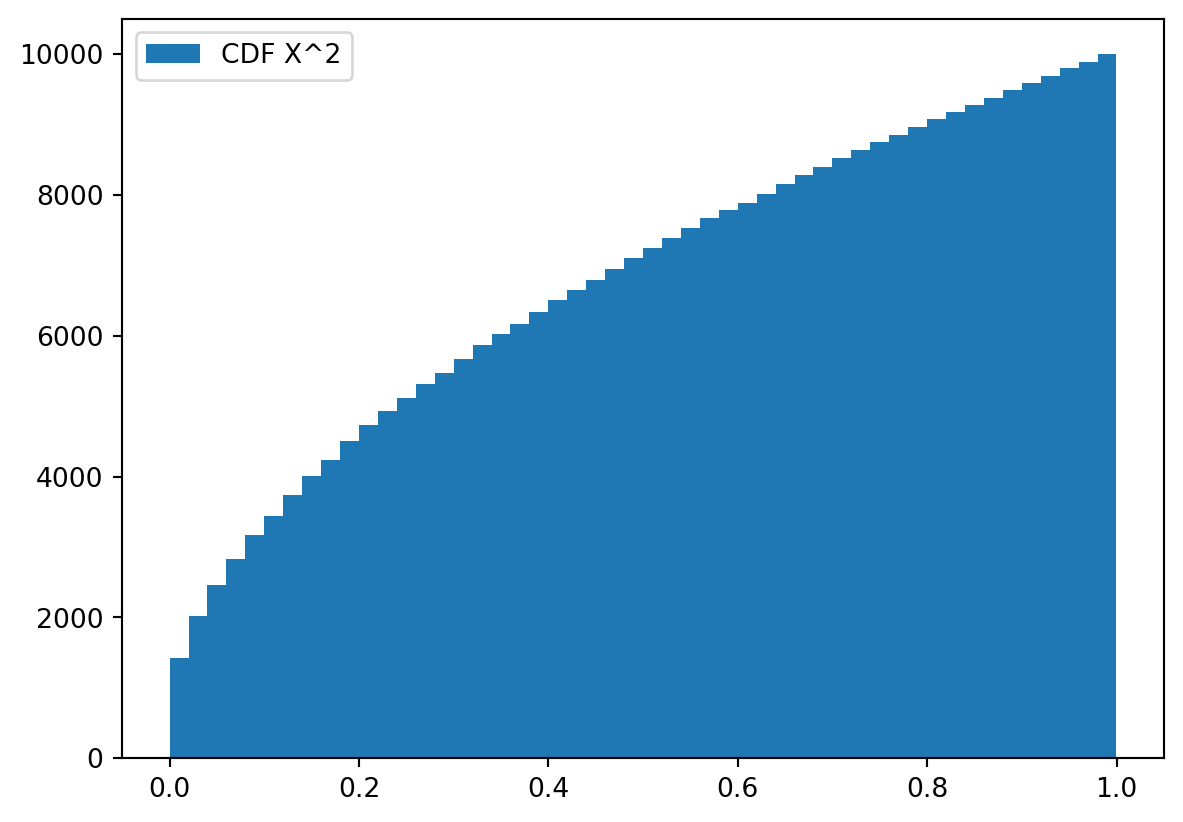
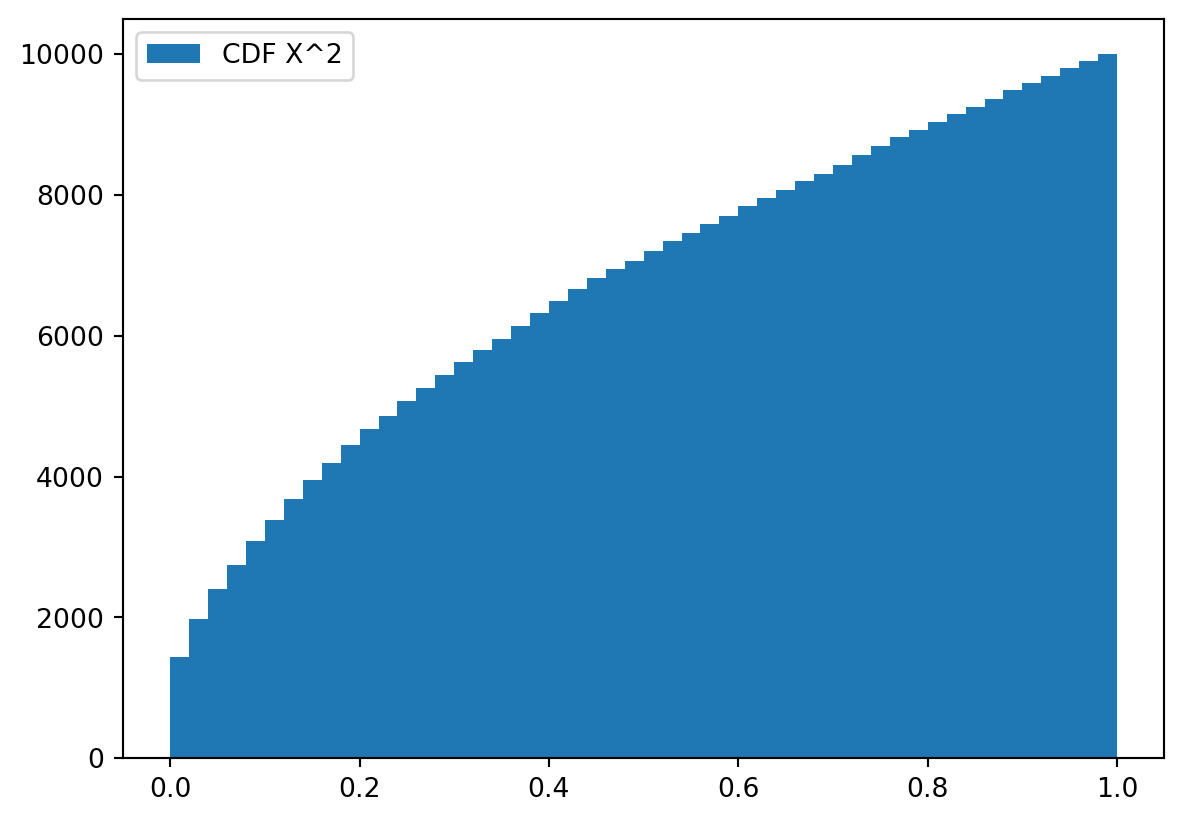
Built site for gh-pages

diff --git a/FCSC/ch1.html b/FCSC/ch1.html
@@ -135,7 +135,7 @@ code span.wa { color: #60a0b0; font-weight: bold; font-style: italic; } /* Warni
   <header id="quarto-header" class="headroom fixed-top">
   <nav class="quarto-secondary-nav" data-bs-toggle="collapse" data-bs-target="#quarto-sidebar" aria-controls="quarto-sidebar" aria-expanded="false" aria-label="Toggle sidebar navigation" onclick="if (window.quartoToggleHeadroom) { window.quartoToggleHeadroom(); }">
     <div class="container-fluid d-flex justify-content-between">
-      <h1 class="quarto-secondary-nav-title">A First Course in Stochastic Calculus: Chapter One Exercises</h1>
+      <h1 class="quarto-secondary-nav-title">A First Course in Stochastic Calculus</h1>
       <button type="button" class="quarto-btn-toggle btn" aria-label="Show secondary navigation">
         <i class="bi bi-chevron-right"></i>
       </button>
@@ -199,7 +199,7 @@ code span.wa { color: #60a0b0; font-weight: bold; font-style: italic; } /* Warni
 
 <header id="title-block-header" class="quarto-title-block default">
 <div class="quarto-title">
-<h1 class="title d-none d-lg-block">A First Course in Stochastic Calculus: Chapter One Exercises</h1>
+<h1 class="title d-none d-lg-block">A First Course in Stochastic Calculus</h1>
 <p class="subtitle lead">Chapter One Exercises</p>
 </div>
 
@@ -321,7 +321,7 @@ code span.wa { color: #60a0b0; font-weight: bold; font-style: italic; } /* Warni
 <span id="cb5-7"><a href="#cb5-7" aria-hidden="true" tabindex="-1"></a>plt.hist(averages, bins)</span>
 <span id="cb5-8"><a href="#cb5-8" aria-hidden="true" tabindex="-1"></a>plt.show()</span></code><button title="Copy to Clipboard" class="code-copy-button"><i class="bi"></i></button></pre></div>
 <div class="cell-output cell-output-display">
-<p><img src="ch1_files/figure-html/cell-6-output-1.png" width="583" height="411"></p>
+<p><img src="ch1_files/figure-html/cell-6-output-1.png" width="583" height="413"></p>
 </div>
 </div>
 <div class="cell" data-execution_count="6">
@@ -377,7 +377,7 @@ code span.wa { color: #60a0b0; font-weight: bold; font-style: italic; } /* Warni
 <div class="sourceCode cell-code" id="cb9"><pre class="sourceCode python code-with-copy"><code class="sourceCode python"><span id="cb9-1"><a href="#cb9-1" aria-hidden="true" tabindex="-1"></a><span class="kw">def</span> invF(y):</span>
 <span id="cb9-2"><a href="#cb9-2" aria-hidden="true" tabindex="-1"></a>    <span class="cf">return</span> np.tan((y <span class="op">-</span> <span class="fl">0.5</span>)<span class="op">*</span>np.pi)</span>
 <span id="cb9-3"><a href="#cb9-3" aria-hidden="true" tabindex="-1"></a></span>
-<span id="cb9-4"><a href="#cb9-4" aria-hidden="true" tabindex="-1"></a>N <span class="op">=</span> <span class="dv">100000</span></span>
+<span id="cb9-4"><a href="#cb9-4" aria-hidden="true" tabindex="-1"></a>N <span class="op">=</span> <span class="dv">10000</span></span>
 <span id="cb9-5"><a href="#cb9-5" aria-hidden="true" tabindex="-1"></a>samples <span class="op">=</span> [ invF(u) <span class="cf">for</span> u <span class="kw">in</span> np.random.default_rng().uniform(<span class="dv">0</span>, <span class="dv">1</span>, N) ]</span>
 <span id="cb9-6"><a href="#cb9-6" aria-hidden="true" tabindex="-1"></a></span>
 <span id="cb9-7"><a href="#cb9-7" aria-hidden="true" tabindex="-1"></a></span>
@@ -387,18 +387,19 @@ code span.wa { color: #60a0b0; font-weight: bold; font-style: italic; } /* Warni
 <span id="cb9-11"><a href="#cb9-11" aria-hidden="true" tabindex="-1"></a>plt.legend(loc<span class="op">=</span><span class="st">'upper right'</span>)</span>
 <span id="cb9-12"><a href="#cb9-12" aria-hidden="true" tabindex="-1"></a>plt.show()</span></code><button title="Copy to Clipboard" class="code-copy-button"><i class="bi"></i></button></pre></div>
 <div class="cell-output cell-output-display">
-<p><img src="ch1_files/figure-html/cell-10-output-1.png" width="583" height="411"></p>
+<p><img src="ch1_files/figure-html/cell-10-output-1.png" width="575" height="411"></p>
 </div>
 </div>
 <div class="cell" data-execution_count="10">
-<div class="sourceCode cell-code" id="cb10"><pre class="sourceCode python code-with-copy"><code class="sourceCode python"><span id="cb10-1"><a href="#cb10-1" aria-hidden="true" tabindex="-1"></a>mean <span class="op">=</span> [ s<span class="op">/</span>(idx <span class="op">+</span> <span class="dv">1</span>) <span class="cf">for</span> idx, s <span class="kw">in</span> <span class="bu">enumerate</span>(np.cumsum(samples)) ]</span>
-<span id="cb10-2"><a href="#cb10-2" aria-hidden="true" tabindex="-1"></a></span>
-<span id="cb10-3"><a href="#cb10-3" aria-hidden="true" tabindex="-1"></a>plt.plot(mean, label<span class="op">=</span><span class="st">'average of N samples'</span>)</span>
-<span id="cb10-4"><a href="#cb10-4" aria-hidden="true" tabindex="-1"></a>plt.legend(loc<span class="op">=</span><span class="st">'upper right'</span>)</span>
-<span id="cb10-5"><a href="#cb10-5" aria-hidden="true" tabindex="-1"></a>plt.xlabel(<span class="st">'N'</span>)</span>
-<span id="cb10-6"><a href="#cb10-6" aria-hidden="true" tabindex="-1"></a>plt.show()</span></code><button title="Copy to Clipboard" class="code-copy-button"><i class="bi"></i></button></pre></div>
+<div class="sourceCode cell-code" id="cb10"><pre class="sourceCode python code-with-copy"><code class="sourceCode python"><span id="cb10-1"><a href="#cb10-1" aria-hidden="true" tabindex="-1"></a><span class="cf">for</span> i <span class="kw">in</span> <span class="bu">range</span>(<span class="dv">0</span>,<span class="dv">4</span>):</span>
+<span id="cb10-2"><a href="#cb10-2" aria-hidden="true" tabindex="-1"></a>    samples <span class="op">=</span> [ invF(u) <span class="cf">for</span> u <span class="kw">in</span> np.random.default_rng().uniform(<span class="dv">0</span>, <span class="dv">1</span>, N) ]</span>
+<span id="cb10-3"><a href="#cb10-3" aria-hidden="true" tabindex="-1"></a>    plt.plot([ s<span class="op">/</span>(idx <span class="op">+</span> <span class="dv">1</span>) <span class="cf">for</span> idx, s <span class="kw">in</span> <span class="bu">enumerate</span>(np.cumsum(samples)) ], label<span class="op">=</span><span class="ss">f'average </span><span class="sc">{</span>i<span class="sc">}</span><span class="ss">'</span>)</span>
+<span id="cb10-4"><a href="#cb10-4" aria-hidden="true" tabindex="-1"></a></span>
+<span id="cb10-5"><a href="#cb10-5" aria-hidden="true" tabindex="-1"></a>plt.legend(loc<span class="op">=</span><span class="st">'upper right'</span>)</span>
+<span id="cb10-6"><a href="#cb10-6" aria-hidden="true" tabindex="-1"></a>plt.xlabel(<span class="st">'N'</span>)</span>
+<span id="cb10-7"><a href="#cb10-7" aria-hidden="true" tabindex="-1"></a>plt.show()</span></code><button title="Copy to Clipboard" class="code-copy-button"><i class="bi"></i></button></pre></div>
 <div class="cell-output cell-output-display">
-<p><img src="ch1_files/figure-html/cell-11-output-1.png" width="571" height="429"></p>
+<p><img src="ch1_files/figure-html/cell-11-output-1.png" width="586" height="429"></p>
 </div>
 </div>
 <div class="cell" data-execution_count="11">
@@ -719,6 +720,41 @@ P(Y &gt; t + s | Y &gt; s) &amp; =  \frac{P(Y &gt; t + s \cap Y &gt; s)}{P(Y &gt
                      &amp; =  P(Y &gt; t).
 \end{align}\]</span></p>
 <p>Note that <span class="math inline">\(P(Y &gt; t + s \cap Y &gt; s) = P(Y &gt; t + s)\)</span> because <span class="math inline">\(\{ \omega \in \Omega | Y(\omega) &gt; t + s \} \subseteq \{ \omega \in \Omega | Y(\omega) &gt; t \}\)</span> and so <span class="math inline">\(\{ \omega \in \Omega | Y(\omega) &gt; t + s \} \cap \{ \omega \in \Omega | Y(\omega) &gt; t \} = \{ \omega \in \Omega | Y(\omega) &gt; t + s\}\)</span>.</p>
+<div class="callout-note callout callout-style-default callout-captioned">
+<div class="callout-header d-flex align-content-center">
+<div class="callout-icon-container">
+<i class="callout-icon"></i>
+</div>
+<div class="callout-caption-container flex-fill">
+This property characterises the exponential distribution
+</div>
+</div>
+<div class="callout-body-container callout-body">
+<p>Using the memory property <span class="math display">\[
+\begin{align}
+P(X \leq x + h) - P(X &lt; x) &amp;= 1 - P(X &gt; x + h) -1 + P(X &gt; x) \\
+&amp;= P(X &gt; x) - P(X &gt; x + h) \\
+&amp;= P(X &gt; x) - P(X &gt; x + h | X &gt; x) P(X &gt; x) \\
+&amp;= P(X &gt; x)(1 - P(X &gt; x + h | X &gt; x)) \\
+&amp;= P(X &gt; x)(1 - P(X &gt;  h)) \\
+&amp;= P(X &gt; x)(P(X \leq h) - P( X\leq 0)).
+\end{align}
+\]</span></p>
+<p>So we can assert that the CDF <span class="math inline">\(F\)</span> satisifies</p>
+<p><span class="math display">\[
+\begin{align}
+F'(x) &amp;= \lim_{h\to 0} \frac{P(X \leq x +h) - P(X \leq x)}{h} \\
+&amp;= P(X &gt; x) \lim_{h \to 0} \frac{P(X \leq h) - P(X \leq 0)}{h} \\
+&amp;= P(X &gt; x) F'(0) \\
+&amp;= (1 - F(x)) F'(0).
+\end{align}
+\]</span></p>
+<p>The family of solutions to this differential equation is</p>
+<p><span class="math display">\[
+F(x) = 1 - e^{-\lambda x}
+\]</span> for <span class="math inline">\(\lambda &gt; 0\)</span>.</p>
+</div>
+</div>
 </section>
 <section id="gaussian-integration-by-parts" class="level2">
 <h2 class="anchored" data-anchor-id="gaussian-integration-by-parts">1.10 Gaussian Integration by Parts</h2>
@@ -812,8 +848,8 @@ E(e^{\lambda X}) \leq e^{\lambda^2/2}
 P(X &gt; a) \leq e^{-a^2/2}.
 \]</span></p>
 <p>For <span class="math inline">\(\lambda &gt; 0\)</span> <span class="math display">\[
-P(X &gt; a) \leq P(e^{\lambda X} &gt; e^{\lambda a})
-\]</span> by monotonicity of the exponential. By Markov’s inequality and <span class="math inline">\(\eqref{gtail}\)</span> <span class="math display">\[
+P(X &gt; a) = P(e^{\lambda X} &gt; e^{\lambda a})
+\]</span> by the monitonicity of the exponential. By Markov’s inequality and <span class="math inline">\(\eqref{gtail}\)</span> <span class="math display">\[
 P(e^{\lambda X} &gt; e^{\lambda a}) \leq \frac{E(e^{\lambda X})}{e^{\lambda a}} \leq e^{\lambda^2/2 - \lambda a}.
 \]</span></p>
 <p>Let <span class="math inline">\(f(\lambda) = e^{\lambda^2/2 - \lambda a}\)</span>. The minimum for <span class="math inline">\(f\)</span> is found by differentiation:</p>
@@ -850,7 +886,7 @@ E(X) = \int_0^{\infty} P(X &gt; x) dx.
 \]</span></p>
 <p>Subtle point: we’re using the fact that X &gt;= 0 to arrive at zero for the lower limit of the inner integral.</p>
 <div class="callout-tip callout callout-style-default callout-captioned">
-<div class="callout-header d-flex align-content-center" data-bs-toggle="collapse" data-bs-target=".callout-2-contents" aria-controls="callout-2" aria-expanded="false" aria-label="Toggle callout">
+<div class="callout-header d-flex align-content-center" data-bs-toggle="collapse" data-bs-target=".callout-3-contents" aria-controls="callout-3" aria-expanded="false" aria-label="Toggle callout">
 <div class="callout-icon-container">
 <i class="callout-icon"></i>
 </div>
@@ -859,7 +895,7 @@ Consequence: LOTUS (Law Of The Unconcious Statistician)
 </div>
 <div class="callout-btn-toggle d-inline-block border-0 py-1 ps-1 pe-0 float-end"><i class="callout-toggle"></i></div>
 </div>
-<div id="callout-2" class="callout-2-contents callout-collapse collapse">
+<div id="callout-3" class="callout-3-contents callout-collapse collapse">
 <div class="callout-body-container callout-body">
 <p>Let <span class="math inline">\(g: \mathbb{R} \mapsto \mathbb{R}\)</span> be measurable. Then <span class="math inline">\(E(g(X)) = \int_{-\infty}^{\infty} g(x) dF(x)\)</span>.</p>
 <p>First suppose that <span class="math inline">\(g &gt;= 0\)</span>. Then</p>
@@ -889,7 +925,7 @@ E(g(X)) &amp;= E(g_+(X)) - E(g_{-}(X)) \\
 </div>
 </div>
 <div class="callout-tip callout callout-style-default callout-captioned">
-<div class="callout-header d-flex align-content-center" data-bs-toggle="collapse" data-bs-target=".callout-3-contents" aria-controls="callout-3" aria-expanded="false" aria-label="Toggle callout">
+<div class="callout-header d-flex align-content-center" data-bs-toggle="collapse" data-bs-target=".callout-4-contents" aria-controls="callout-4" aria-expanded="false" aria-label="Toggle callout">
 <div class="callout-icon-container">
 <i class="callout-icon"></i>
 </div>
@@ -898,7 +934,7 @@ Consequence: Limit of xP(X&gt;x)
 </div>
 <div class="callout-btn-toggle d-inline-block border-0 py-1 ps-1 pe-0 float-end"><i class="callout-toggle"></i></div>
 </div>
-<div id="callout-3" class="callout-3-contents callout-collapse collapse">
+<div id="callout-4" class="callout-4-contents callout-collapse collapse">
 <div class="callout-body-container callout-body">
 <p>If <span class="math inline">\(E(X_+) &lt; \infty\)</span>, then <span class="math inline">\(\lim_{x \to \infty} x P(X &gt; x) = 0\)</span>.</p>
 <p>We prove this by contradiction. Suppose that there exists <span class="math inline">\(c &gt; 0\)</span> such that <span class="math inline">\(lim_{x \to \infty} xP(X &gt;x) \geq c\)</span>. Then for some <span class="math inline">\(x(c)\)</span>, <span class="math inline">\(xP(X&gt;x) \geq c\)</span> for all <span class="math inline">\(x &gt; x(c)\)</span> and so</p>

diff --git a/index.html b/index.html
@@ -187,7 +187,7 @@ ul.task-list li input[type="checkbox"] {
 
 <div class="quarto-listing quarto-listing-container-default" id="listing-listing">
 <div class="list quarto-listing-default">
-<div class="quarto-post image-right" data-index="0" data-listing-file-modified-sort="1672331047430" data-listing-reading-time-sort="18.875">
+<div class="quarto-post image-right" data-index="0" data-listing-file-modified-sort="1672354797815" data-listing-reading-time-sort="19.745">
 <div class="body">
 <a href="./FCSC/ch1.html">
 <h3 class="no-anchor listing-title">
@@ -205,7 +205,7 @@ Chapter One Exercises
 <a href="./FCSC/ch1.html"> </a>
 </div>
 </div>
-<div class="quarto-post image-right" data-index="1" data-listing-file-modified-sort="1672345999663" data-listing-reading-time-sort="9.025">
+<div class="quarto-post image-right" data-index="1" data-listing-file-modified-sort="1672348533712" data-listing-reading-time-sort="9.025">
 <div class="body">
 <a href="./PML/ch2.html">
 <h3 class="no-anchor listing-title">

diff --git a/PML/ch2.html b/PML/ch2.html
@@ -432,6 +432,7 @@ P(D | +)  &amp;= \frac{P(+ | D) P(D)}{P(+)} \\
 <pre><code>0.009803921568627442</code></pre>
 </div>
 </div>
+<p>So, with the test for this disease, a positive test means you have about 1% chance of having the disease.</p>
 </section>
 <section id="exercise-2.11" class="level1">
 <h1>Exercise 2.11</h1>
@@ -579,8 +580,10 @@ P(B) = \frac{2 \alpha}{3}.
 <span id="cb3-45"><a href="#cb3-45" aria-hidden="true" tabindex="-1"></a></span>
 <span id="cb3-46"><a href="#cb3-46" aria-hidden="true" tabindex="-1"></a><span class="bu">print</span>(tails<span class="op">/</span>iterations)</span></code><button title="Copy to Clipboard" class="code-copy-button"><i class="bi"></i></button></pre></div>
 <div class="cell-output cell-output-stdout">
-<pre><code>0.6643
-0.5001</code></pre>
+<pre><code>0.6744</code></pre>
+</div>
+<div class="cell-output cell-output-stdout">
+<pre><code>0.497</code></pre>
 </div>
 </div>
 
